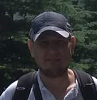
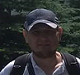
added a little style

diff --git a/index.html b/index.html
@@ -6,7 +6,6 @@
 	<meta name="viewport" content="width=device-width, initial-scale=1.0">
 	<title>Review carousel</title>
 	<link rel="stylesheet" href="./style.css">
-	<link href="https://cdn.jsdelivr.net/npm/bootstrap@5.0.0-beta3/dist/css/bootstrap.min.css" rel="stylesheet" integrity="sha384-eOJMYsd53ii+scO/bJGFsiCZc+5NDVN2yr8+0RDqr0Ql0h+rP48ckxlpbzKgwra6" crossorigin="anonymous">
 </head>
 <body>
 	<main>
@@ -19,7 +18,7 @@
 			<!-- review -->
 			<article class="review">
 				<div class="img-container">
-					<img src="./img/person1.jpg" id="persone-img" alt="picture">
+					<img src="./img/person2.jpg" id="persone-img" alt="picture">
 				</div>
 				<h4 id="author">zenin vladymyr</h4>
 				<p id="jod">front end developer</p>

diff --git a/style.css b/style.css
@@ -1,0 +1,19 @@
+body {
+  display: flex;
+  flex-direction: column;
+  text-align: center;
+  background-color: #f1f5f8;
+}
+
+.review {
+  width: 30%;
+  background-color: #dfe7e9;
+  margin: 200px auto;
+  padding: 10px;
+  border-radius: 7px;
+  box-shadow: 0 14px 28px rgba(0, 0, 0, 0.25), 0 10px 10px rgba(0, 0, 0, 0.22);
+}
+
+#persone-img {
+  border-radius: 50%;
+}
